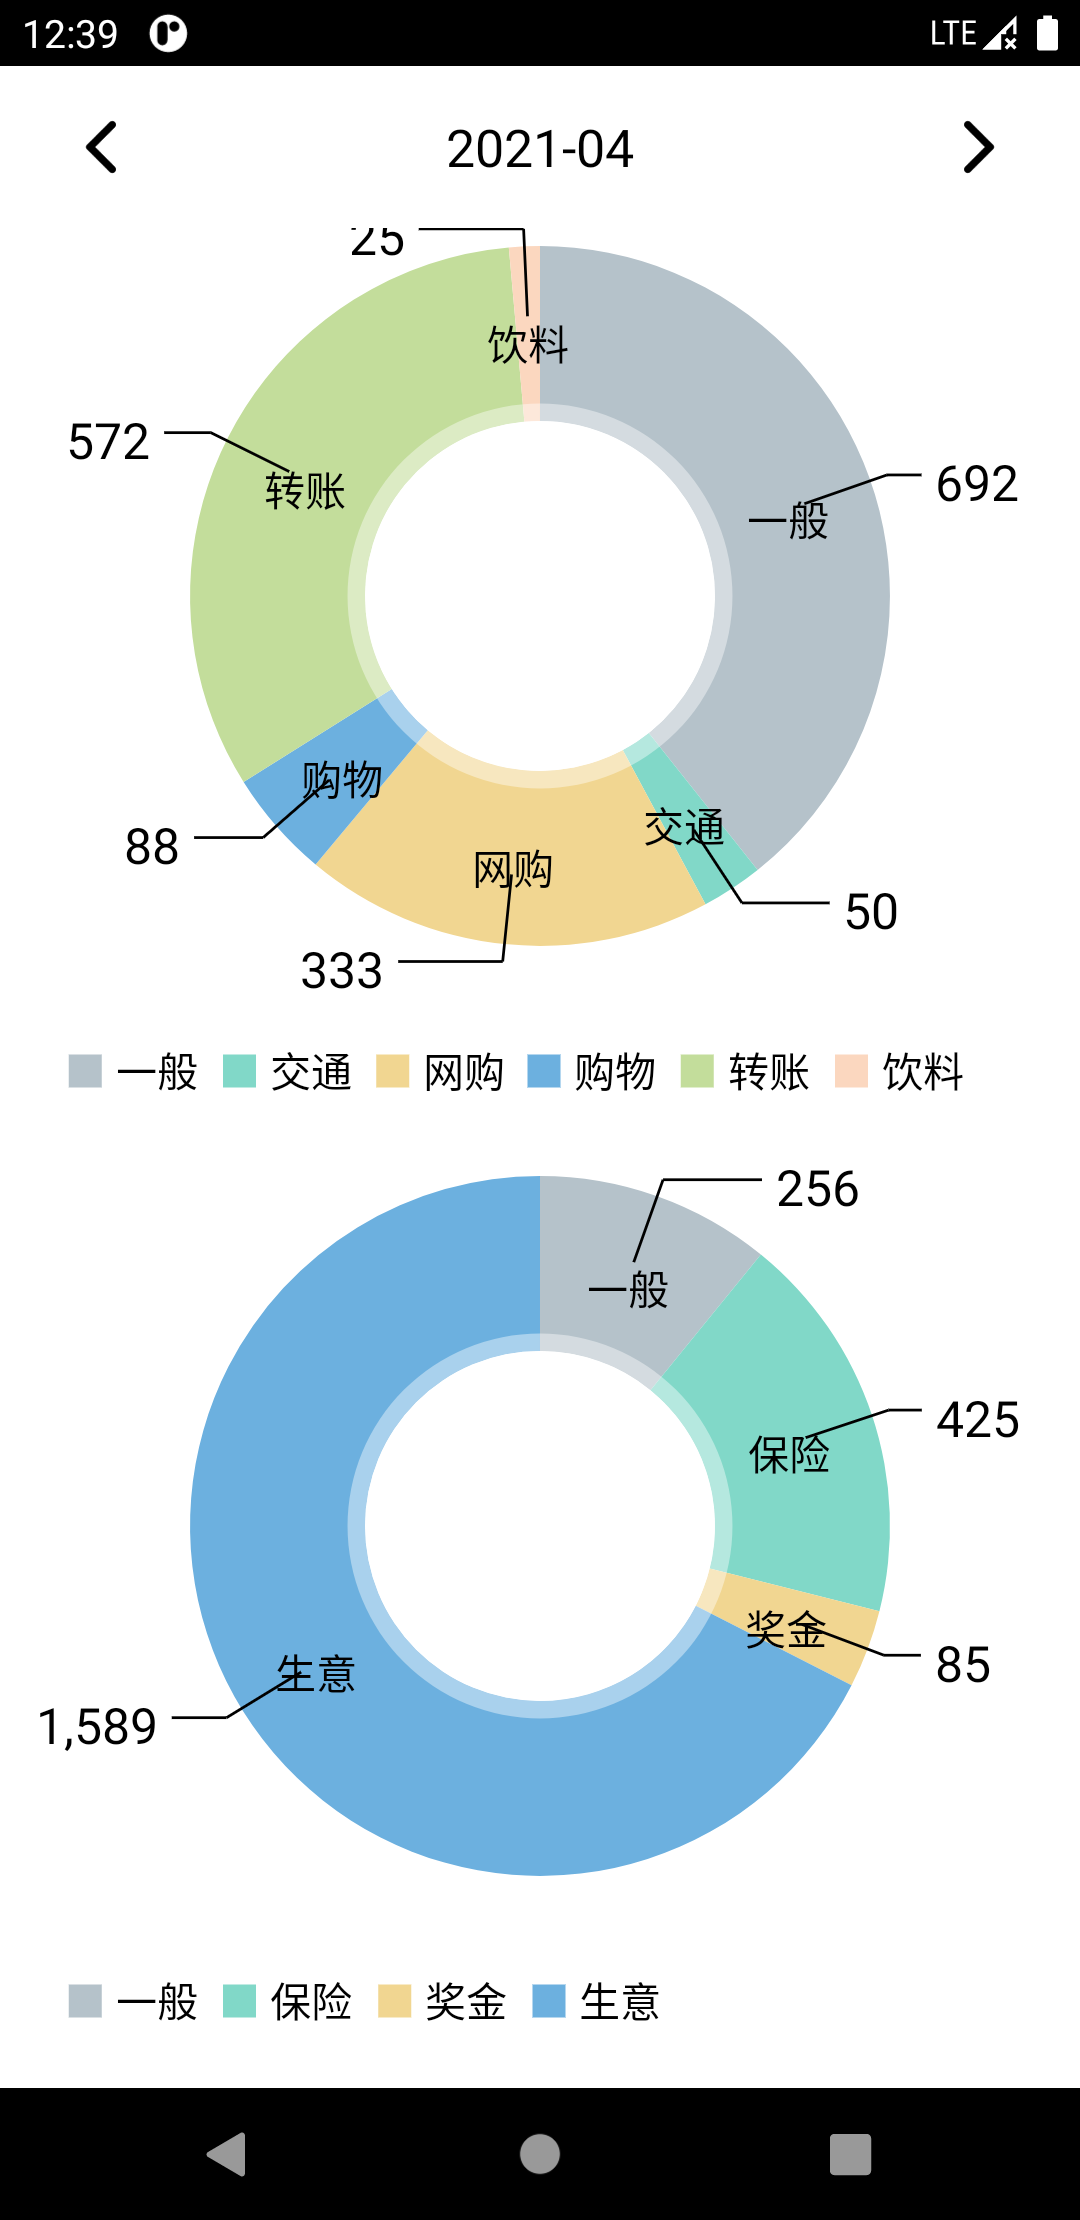
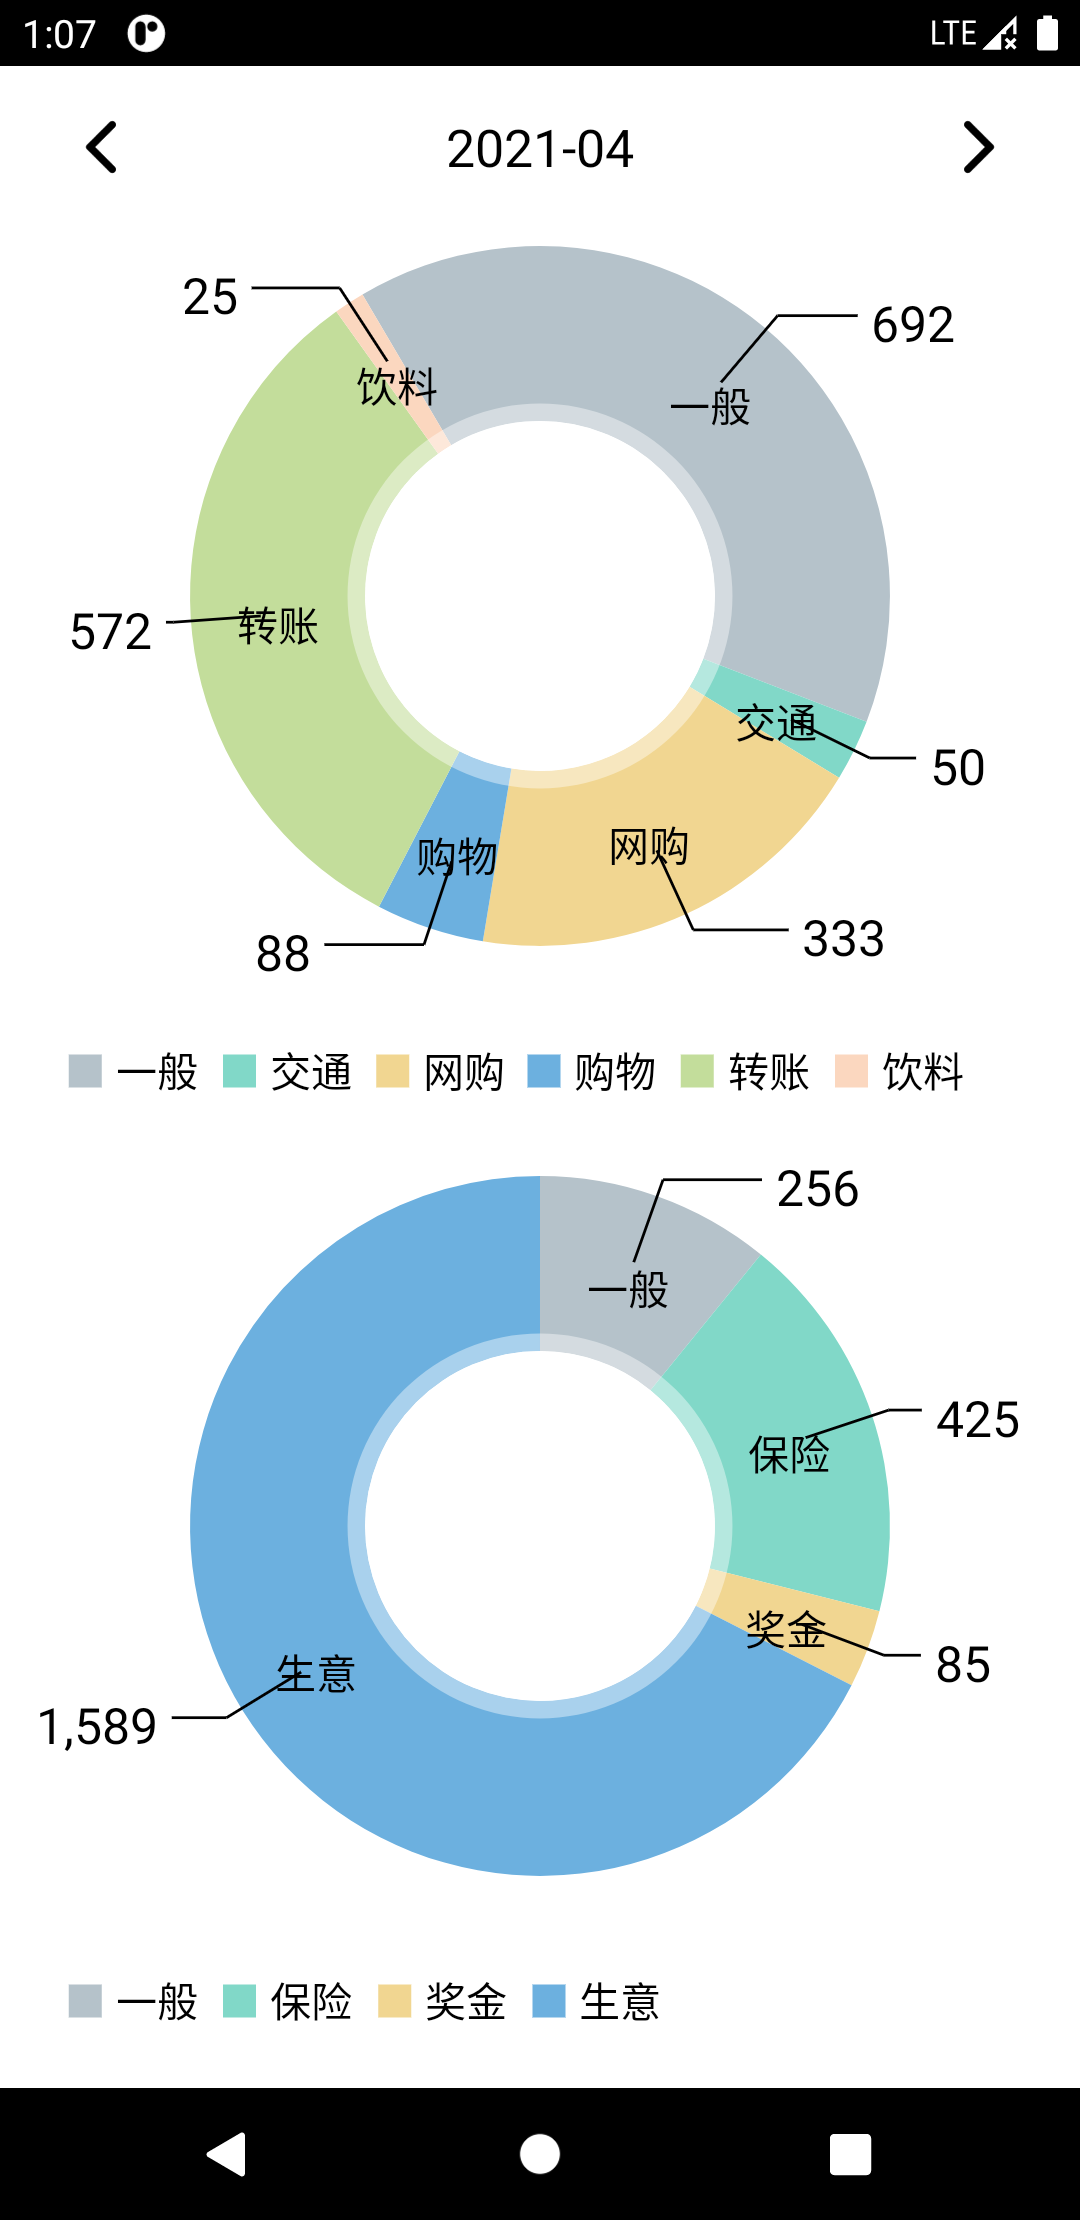
docs: add page of statistics

diff --git a/README.md b/README.md
@@ -18,6 +18,14 @@ Items in the left side are earning and those in the right side are costs.
 
 Click the "+" button, the APP will navigate to page which can choose earn / cost items to add.
 
+Click the icon in the top right corner, user can surf to the statistics page.
+
+### Statistics page
+
+<img src="./markdown_res/stat_page.png" width="40%" />
+
+This page will display 2 pie charts of cost and earning items in one month.
+
 ### Add item page
 
 <img src="./markdown_res/add_page.png" width="40%" />
